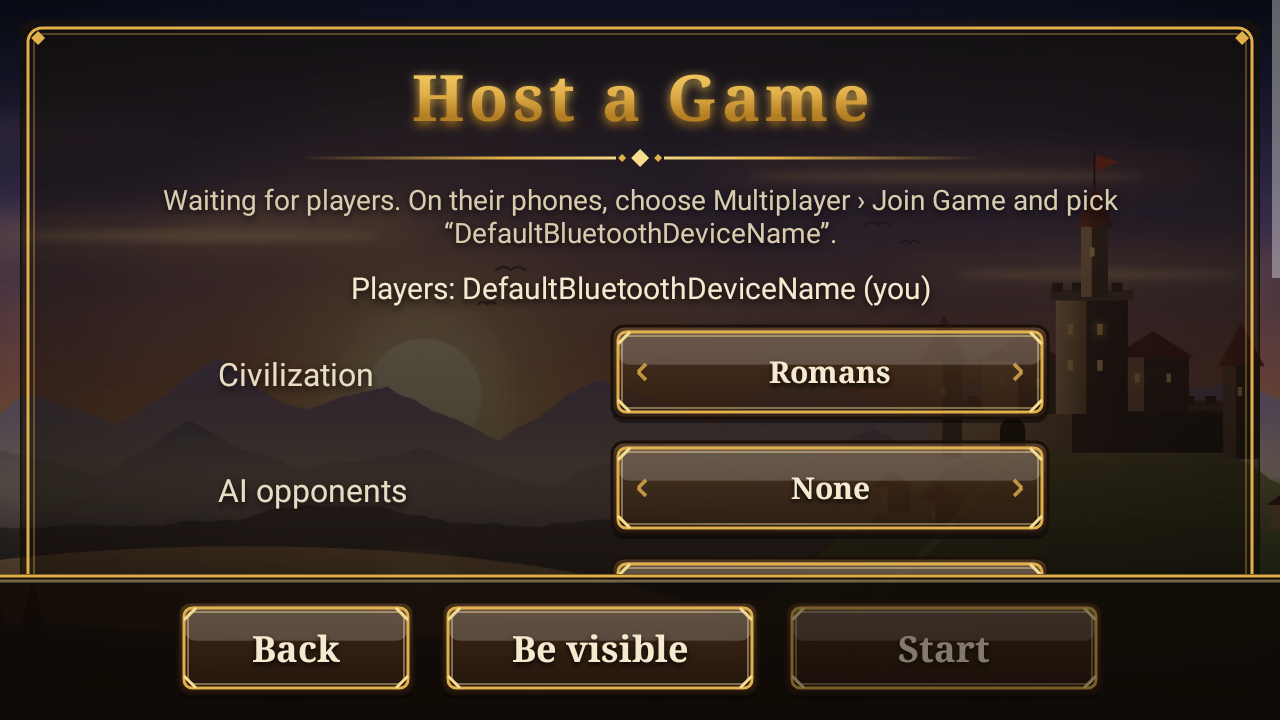
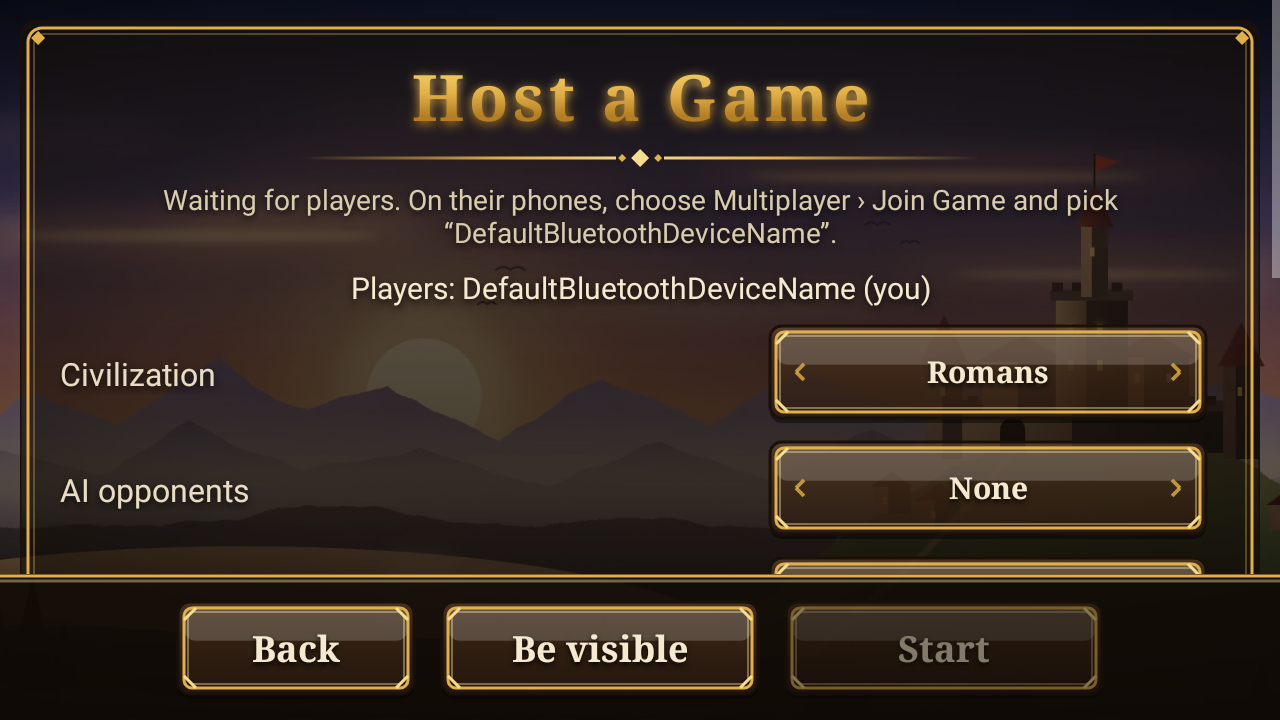
fix: menu options cut off, and citizens jamming at a grove
The menu panel width multiplied by a truncated density (2.625 became 2 on a
Pixel 6), so the panel came out narrower than intended and the option buttons
ran past its edge. Rows now also let the label shrink instead of the button.

Citizens sent to a tree they could not reach (one surrounded by other trees)
piled up at the grove edge forever: every re-path reset their stuck timer, so
they never gave up and moved to another tree. Re-pathing to the same target
now keeps the stuck time, and when a gatherer picks a new node, nodes others
are already working count as farther away so the group spreads out.

Claude-Session: https://claude.ai/code/session_01AZYLBoABqzDFCKKWQSmDyT

diff --git a/core/src/main/kotlin/com/nsheaps/risetopower/core/World.kt b/core/src/main/kotlin/com/nsheaps/risetopower/core/World.kt
@@ -238,7 +238,7 @@ class World(val settings: GameSettings, generate: Boolean = true) {
         }
     }
 
-    private fun removeEntity(e: Entity) {
+    internal fun removeEntity(e: Entity) {
         entities.remove(e.id)
         when (e) {
             is Building -> {
@@ -727,9 +727,11 @@ class World(val settings: GameSettings, generate: Boolean = true) {
     }
 
     private fun pathToEntity(u: GameUnit, e: Entity) {
+        // Re-pathing to the same target keeps the stuck time, so a unit wedged in a crowd
+        // eventually gives up and picks another target instead of retrying forever.
+        if (u.pathGoalId != e.id) u.stuckTimer = 0f
         u.pathGoalId = e.id
         u.pathGoalX = e.x; u.pathGoalY = e.y
-        u.stuckTimer = 0f
         u.pathIndex = 0
         when (e) {
             is GameUnit -> {
@@ -786,6 +788,7 @@ class World(val settings: GameSettings, generate: Boolean = true) {
         if (e.distanceTo(u.x, u.y) <= reach) {
             u.clearPath()
             u.moving = false
+            u.stuckTimer = 0f
             return true
         }
         u.repathTimer -= dt
@@ -1117,13 +1120,24 @@ class World(val settings: GameSettings, generate: Boolean = true) {
         return best
     }
 
-    fun findNode(resource: ResourceType, x: Float, y: Float, radius: Float, exclude: Int = -1): ResourceNode? {
+    /**
+     * The closest node of [resource] within [radius], counting each unit already working a
+     * node as [CROWD_PENALTY] tiles of extra distance so gatherers spread out over a forest
+     * or mine instead of queuing at one tree.
+     */
+    fun findNode(resource: ResourceType, x: Float, y: Float, radius: Float, exclude: Int = -1, self: Int = -1): ResourceNode? {
+        val crowd = HashMap<Int, Int>()
+        for (o in units) {
+            if (o.alive && o.id != self && o.order == OrderType.GATHER && o.targetId >= 0) crowd.merge(o.targetId, 1, Int::plus)
+        }
         var best: ResourceNode? = null
-        var bestD = radius
+        var bestScore = Float.MAX_VALUE
         for (n in nodes) {
             if (!n.alive || n.id == exclude || n.kind.resource != resource) continue
             val d = dist(n.x, n.y, x, y)
-            if (d < bestD) { bestD = d; best = n }
+            if (d >= radius) continue
+            val score = d + (crowd[n.id] ?: 0) * CROWD_PENALTY / n.kind.size
+            if (score < bestScore) { bestScore = score; best = n }
         }
         return best
     }
@@ -1151,7 +1165,7 @@ class World(val settings: GameSettings, generate: Boolean = true) {
                 val farm = findFreeFarm(u.owner, u.gatherX, u.gatherY, 8f, u.id)
                 if (farm != null) { startFarm(u, farm); return }
             }
-            val next = if (res != null) findNode(res, u.gatherX, u.gatherY, 10f) else null
+            val next = if (res != null) findNode(res, u.gatherX, u.gatherY, 10f, self = u.id) else null
             if (next != null) { startGather(u, next); return }
             if (u.carryAmount > 0f) { u.order = OrderType.RETURN; u.clearPath() } else setIdle(u)
             return
@@ -1190,7 +1204,7 @@ class World(val settings: GameSettings, generate: Boolean = true) {
         if (!inReach) {
             if (u.stuckTimer > 5f) {
                 u.stuckTimer = 0f
-                val alt = findNode(res, u.x, u.y, 12f, target.id)
+                val alt = findNode(res, u.x, u.y, 12f, target.id, self = u.id)
                 if (alt != null) startGather(u, alt) else setIdle(u)
             }
             return
@@ -1633,5 +1647,7 @@ class World(val settings: GameSettings, generate: Boolean = true) {
     companion object {
         const val WONDER_TIME = 300f
         const val TICK = 0.05f
+        /** Extra distance, in tiles, findNode counts per unit already working a node. */
+        const val CROWD_PENALTY = 1.5f
     }
 }

diff --git a/core/src/test/kotlin/com/nsheaps/risetopower/core/SimulationTest.kt b/core/src/test/kotlin/com/nsheaps/risetopower/core/SimulationTest.kt
@@ -67,6 +67,36 @@ class SimulationTest {
     }
 
     @Test
+    fun villagersSentToATreeInsideAGroveDoNotJam() {
+        for (seed in 1L..3L) {
+            val w = World(settings(2, MapSize.LARGE, seed = seed, humanFirst = true))
+            val m = w.map
+            // A clear 20x14 patch (trees in it are removed) away from the starting towns.
+            var spot: Pair<Int, Int>? = null
+            loop@ for (y in 4 until m.height - 20 step 3) for (x in 4 until m.width - 24 step 3) {
+                val clear = (x until x + 20).all { tx -> (y until y + 14).all { ty ->
+                    val i = m.idx(tx, ty)
+                    m.terrain[i].buildable && (m.occupant[i] < 0 || w.get(m.occupant[i]) is ResourceNode)
+                } }
+                if (clear && w.buildings.none { it.distanceTo(x + 10f, y + 7f) < 12f }) { spot = x to y; break@loop }
+            }
+            val (x0, y0) = spot!!
+            for (n in w.nodes.filter { it.tx in x0 - 1..x0 + 20 && it.ty in y0 - 1..y0 + 14 }) w.removeEntity(n)
+            w.addBuilding(0, BuildingType.LUMBER_CAMP, x0 + 1, y0 + 5, true)
+            for (tx in x0 + 13 until x0 + 18) for (ty in y0 + 3 until y0 + 11) w.spawnNode(NodeKind.TREE, tx, ty)
+            val vills = (0 until 8).map { w.spawnUnit(0, UnitType.VILLAGER, x0 + 4f + it % 2, y0 + 4f + it / 2) }
+            // The whole group sent to a tree no one can reach until the trees around it fall.
+            val tree = w.nodes.first { it.tx == x0 + 15 && it.ty == y0 + 7 }
+            w.commandGather(vills.map { it.id }, tree.id)
+            val p = w.players[0]
+            val before = p[ResourceType.WOOD]
+            run(w, 120f)
+            // They used to pile up at the grove's edge for good and gather nothing.
+            assertTrue("seed $seed wood: ${p[ResourceType.WOOD]} vs $before", p[ResourceType.WOOD] > before + 200f)
+        }
+    }
+
+    @Test
     fun villagersPickBerries() {
         for (seed in 1L..6L) for (type in MapType.entries) {
             val w = World(settings(2, seed = seed, type = type, humanFirst = true))

diff --git a/app/src/main/java/com/nsheaps/risetopower/MainActivity.kt b/app/src/main/java/com/nsheaps/risetopower/MainActivity.kt
@@ -231,11 +231,13 @@ class MainActivity : Activity() {
             setTextColor(0xFFE8DCC4.toInt())
             setShadowLayer(3f * dp, 0f, 1.5f * dp, 0xCC000000.toInt())
             textSize = 16f
-            layoutParams = LinearLayout.LayoutParams((190 * dp).toInt(), ViewGroup.LayoutParams.WRAP_CONTENT)
+            // The label takes what the control leaves, so a narrow panel squeezes the label
+            // (which wraps) instead of pushing the control past the panel's edge.
+            layoutParams = LinearLayout.LayoutParams(0, ViewGroup.LayoutParams.WRAP_CONTENT, 1f)
         }
         r.addView(l)
         r.addView(control)
-        r.layoutParams = LinearLayout.LayoutParams(ViewGroup.LayoutParams.WRAP_CONTENT, ViewGroup.LayoutParams.WRAP_CONTENT)
+        r.layoutParams = LinearLayout.LayoutParams(ViewGroup.LayoutParams.MATCH_PARENT, ViewGroup.LayoutParams.WRAP_CONTENT)
         return r
     }
 
@@ -258,7 +260,7 @@ class MainActivity : Activity() {
             // Float the panel over the backdrop and cap its width on wide screens.
             val m = (10 * dp).toInt()
             lp.setMargins(m, m, m, m)
-            lp.width = min(resources.configuration.screenWidthDp - 20, 760) * dp.toInt()
+            lp.width = (min(resources.configuration.screenWidthDp - 20, 760) * dp).toInt()
         }
         wrap.addView(content, lp)
         addView(wrap, ViewGroup.LayoutParams(ViewGroup.LayoutParams.MATCH_PARENT, ViewGroup.LayoutParams.WRAP_CONTENT))
